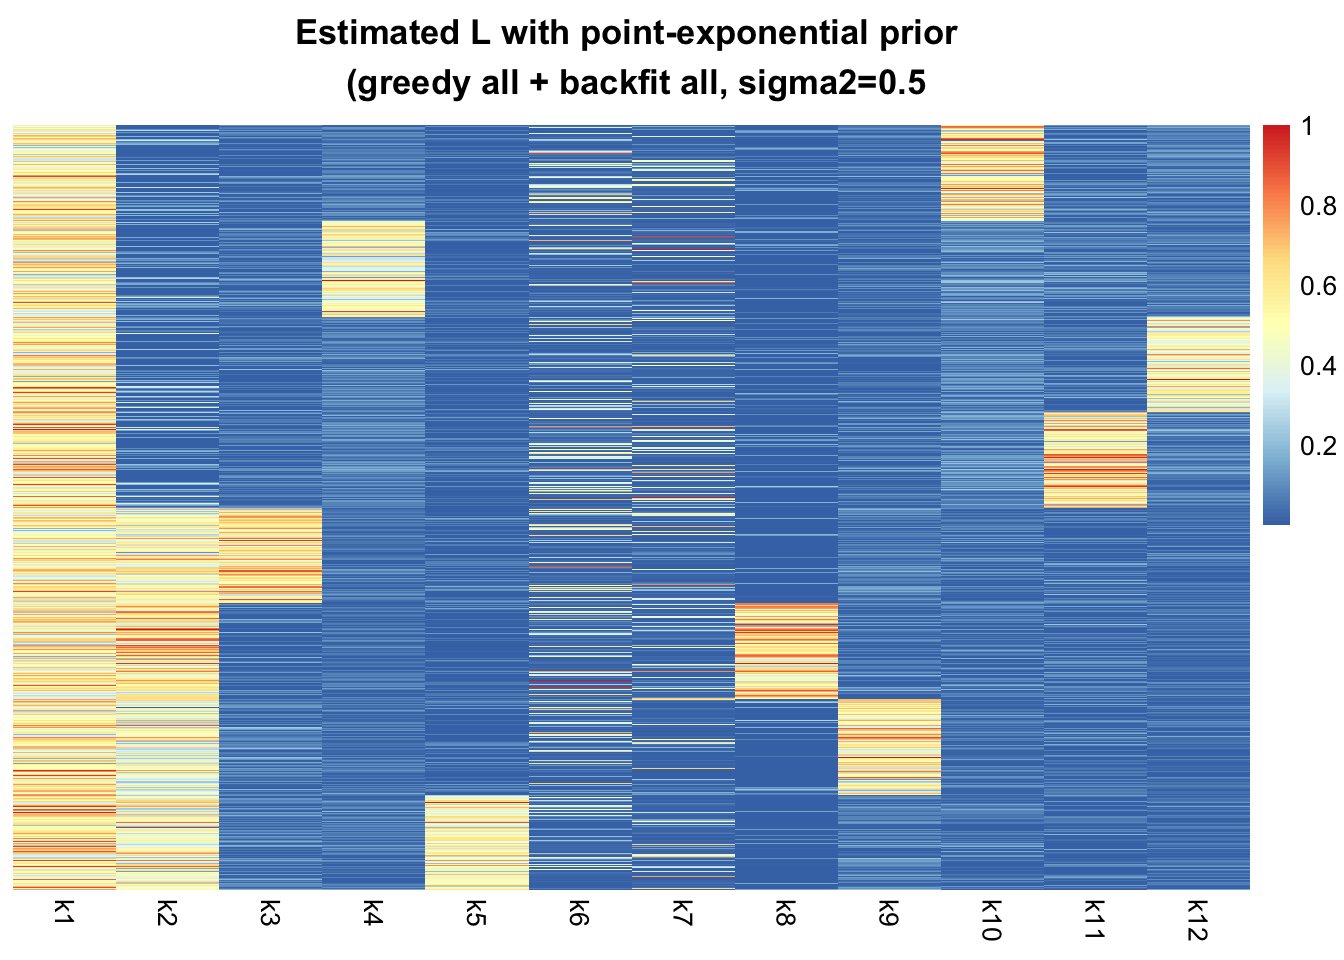
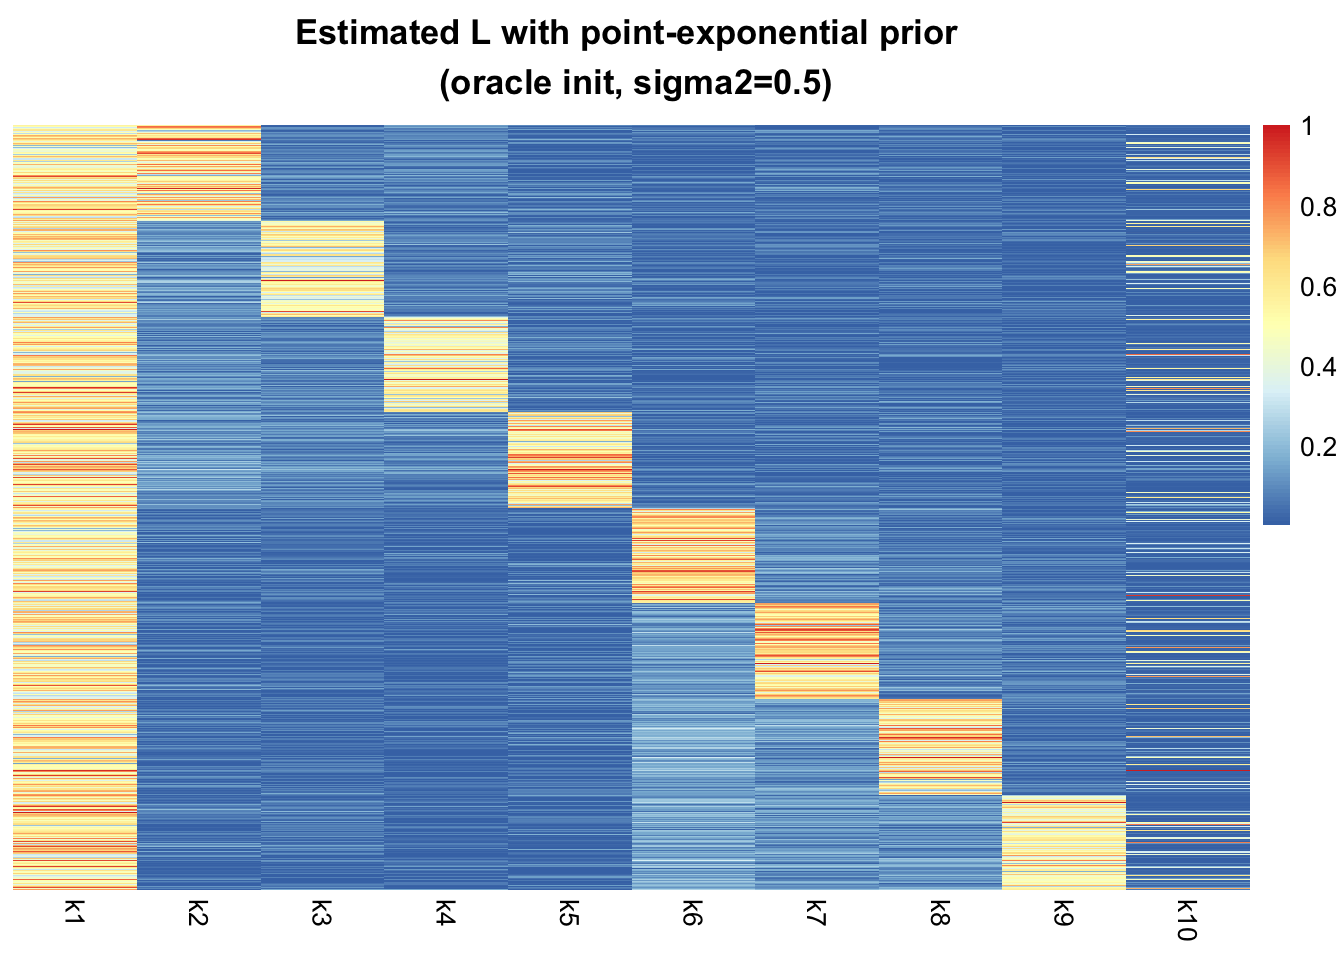
Build site.

diff --git a/docs/simulations3_update.html b/docs/simulations3_update.html
@@ -476,16 +476,16 @@ This reproducible <a href="http://rmarkdown.rstudio.com">R Markdown</a> analysis
 <div class="panel panel-default">
 <div class="panel-heading">
 <p class="panel-title">
-<a data-toggle="collapse" data-parent="#workflowr-checks" href="#strongRepositoryversionstrongahrefhttpsgithubcomYushaLiusinglecellcancertreeb3dc8a7700b6a41633ed377113ceb9a4d5aa9d29targetblankb3dc8a7a"> <span class="glyphicon glyphicon-ok text-success" aria-hidden="true"></span> <strong>Repository version:</strong> <a href="https://github.com/YushaLiu/single_cell_cancer/tree/b3dc8a7700b6a41633ed377113ceb9a4d5aa9d29" target="_blank">b3dc8a7</a> </a>
+<a data-toggle="collapse" data-parent="#workflowr-checks" href="#strongRepositoryversionstrongahrefhttpsgithubcomYushaLiusinglecellcancertreef4baf2c59f8a4767bcbb24afbb90eb5f35274827targetblankf4baf2ca"> <span class="glyphicon glyphicon-ok text-success" aria-hidden="true"></span> <strong>Repository version:</strong> <a href="https://github.com/YushaLiu/single_cell_cancer/tree/f4baf2c59f8a4767bcbb24afbb90eb5f35274827" target="_blank">f4baf2c</a> </a>
 </p>
 </div>
[2 lines of base64/hex data omitted]
 <div class="panel-body">
 <p>
 Great! You are using Git for version control. Tracking code development and connecting the code version to the results is critical for reproducibility.
 </p>
 <p>
-The results in this page were generated with repository version <a href="https://github.com/YushaLiu/single_cell_cancer/tree/b3dc8a7700b6a41633ed377113ceb9a4d5aa9d29" target="_blank">b3dc8a7</a>. See the <em>Past versions</em> tab to see a history of the changes made to the R Markdown and HTML files.
+The results in this page were generated with repository version <a href="https://github.com/YushaLiu/single_cell_cancer/tree/f4baf2c59f8a4767bcbb24afbb90eb5f35274827" target="_blank">f4baf2c</a>. See the <em>Past versions</em> tab to see a history of the changes made to the R Markdown and HTML files.
 </p>
 <p>
 Note that you need to be careful to ensure that all relevant files for the analysis have been committed to Git prior to generating the results (you can use <code>wflow_publish</code> or <code>wflow_git_commit</code>). workflowr only checks the R Markdown file, but you know if there are other scripts or data files that it depends on. Below is the status of the Git repository when the results were generated:
@@ -498,6 +498,9 @@ Ignored files:
 
 Untracked files:
     Untracked:  code/simulations.R
+    Untracked:  code/simulations3_update.R
+    Untracked:  output/simulations3_update_XXt_fit3_sigma_v1.Rds
+    Untracked:  output/simulations3_update_XXt_fit3_sigma_v2.Rds
 
 Unstaged changes:
     Modified:   code/util.R
@@ -544,6 +547,40 @@ Message
 Rmd
 </td>
 <td>
+<a href="https://github.com/YushaLiu/single_cell_cancer/blob/f4baf2c59f8a4767bcbb24afbb90eb5f35274827/analysis/simulations3_update.Rmd" target="_blank">f4baf2c</a>
+</td>
+<td>
+yushaliu
+</td>
+<td>
+2021-10-17
+</td>
+<td>
+centered the intercept column of F in the simulation design
+</td>
+</tr>
+<tr>
+<td>
+html
+</td>
+<td>
+<a href="https://rawcdn.githack.com/YushaLiu/single_cell_cancer/c422dc9c8cf3e53f6a090f4a545a612c5b0de423/docs/simulations3_update.html" target="_blank">c422dc9</a>
+</td>
+<td>
+yushaliu
+</td>
+<td>
+2021-10-17
+</td>
+<td>
+Build site.
+</td>
+</tr>
+<tr>
+<td>
+Rmd
+</td>
+<td>
 <a href="https://github.com/YushaLiu/single_cell_cancer/blob/b3dc8a7700b6a41633ed377113ceb9a4d5aa9d29/analysis/simulations3_update.Rmd" target="_blank">b3dc8a7</a>
 </td>
 <td>
@@ -585,8 +622,82 @@ F[,1] &lt;- F[,1] - 10
 ### plot the drift factorization of truth, where F is orthogonal across columns 
 pheatmap(L[,-1], show_rownames = FALSE, cluster_rows = FALSE, cluster_cols = FALSE, main=&quot;True L&quot;)</code></pre>
 <p><img src="figure/simulations3_update.Rmd/unnamed-chunk-1-1.png" width="672" style="display: block; margin: auto;" /></p>
+<p>
+<button type="button" class="btn btn-default btn-xs btn-workflowr btn-workflowr-fig" data-toggle="collapse" data-target="#fig-unnamed-chunk-1-1">
+Past versions of unnamed-chunk-1-1.png
+</button>
+</p>
+<div id="fig-unnamed-chunk-1-1" class="collapse">
+<div class="table-responsive">
+<table class="table table-condensed table-hover">
+<thead>
+<tr>
+<th>
+Version
+</th>
+<th>
+Author
+</th>
+<th>
+Date
+</th>
+</tr>
+</thead>
+<tbody>
+<tr>
+<td>
+<a href="https://github.com/YushaLiu/single_cell_cancer/blob/c422dc9c8cf3e53f6a090f4a545a612c5b0de423/docs/figure/simulations3_update.Rmd/unnamed-chunk-1-1.png" target="_blank">c422dc9</a>
+</td>
+<td>
+yushaliu
+</td>
+<td>
+2021-10-17
+</td>
+</tr>
+</tbody>
+</table>
+</div>
+</div>
 <pre class="r"><code>pheatmap(F[,-1], show_rownames = FALSE, cluster_rows = FALSE, cluster_cols = FALSE, main=&quot;True F&quot;)</code></pre>
 <p><img src="figure/simulations3_update.Rmd/unnamed-chunk-1-2.png" width="672" style="display: block; margin: auto;" /></p>
+<p>
+<button type="button" class="btn btn-default btn-xs btn-workflowr btn-workflowr-fig" data-toggle="collapse" data-target="#fig-unnamed-chunk-1-2">
+Past versions of unnamed-chunk-1-2.png
+</button>
+</p>
+<div id="fig-unnamed-chunk-1-2" class="collapse">
+<div class="table-responsive">
+<table class="table table-condensed table-hover">
+<thead>
+<tr>
+<th>
+Version
+</th>
+<th>
+Author
+</th>
+<th>
+Date
+</th>
+</tr>
+</thead>
+<tbody>
+<tr>
+<td>
+<a href="https://github.com/YushaLiu/single_cell_cancer/blob/c422dc9c8cf3e53f6a090f4a545a612c5b0de423/docs/figure/simulations3_update.Rmd/unnamed-chunk-1-2.png" target="_blank">c422dc9</a>
+</td>
+<td>
+yushaliu
+</td>
+<td>
+2021-10-17
+</td>
+</tr>
+</tbody>
+</table>
+</div>
+</div>
 <div id="use-true-l-for-initialization-sigma21" class="section level3">
 <h3>Use true L for initialization (sigma2=1)</h3>
 <pre class="r"><code>### simulate data with i.i.d. gaussian errors
@@ -633,6 +744,43 @@ colnames(fit1.L) &lt;- paste0(&quot;k&quot;, 1:ncol(fit1.L))
 pheatmap(fit1.L, show_rownames = FALSE, cluster_rows = FALSE, cluster_cols = FALSE, 
          main=&quot;Estimated L with point-exponential prior \n (oracle init, sigma2=1)&quot;)</code></pre>
 <p><img src="figure/simulations3_update.Rmd/unnamed-chunk-2-1.png" width="672" style="display: block; margin: auto;" /></p>
+<p>
+<button type="button" class="btn btn-default btn-xs btn-workflowr btn-workflowr-fig" data-toggle="collapse" data-target="#fig-unnamed-chunk-2-1">
+Past versions of unnamed-chunk-2-1.png
+</button>
+</p>
+<div id="fig-unnamed-chunk-2-1" class="collapse">
+<div class="table-responsive">
+<table class="table table-condensed table-hover">
+<thead>
+<tr>
+<th>
+Version
+</th>
+<th>
+Author
+</th>
+<th>
+Date
+</th>
+</tr>
+</thead>
+<tbody>
+<tr>
+<td>
+<a href="https://github.com/YushaLiu/single_cell_cancer/blob/c422dc9c8cf3e53f6a090f4a545a612c5b0de423/docs/figure/simulations3_update.Rmd/unnamed-chunk-2-1.png" target="_blank">c422dc9</a>
+</td>
+<td>
+yushaliu
+</td>
+<td>
+2021-10-17
+</td>
+</tr>
+</tbody>
+</table>
+</div>
+</div>
 </div>
 <div id="add-all-factors-greedily-then-take-nonnegative-transform-and-backfit-all-factors-sigma21" class="section level3">
 <h3>Add all factors greedily, then take nonnegative transform and backfit all factors (sigma2=1)</h3>
@@ -710,6 +858,56 @@ fit2.L &lt;- t(t(fit2.L)/apply(fit2.L, 2, max))
 colnames(fit2.L) &lt;- paste0(&quot;k&quot;, 1:ncol(fit2.L))
 pheatmap(fit2.L, show_rownames = FALSE, cluster_rows = FALSE, cluster_cols = FALSE, main=&quot;Estimated L with point-exponential prior \n (greedy all + backfit all, sigma2=1&quot;)</code></pre>
 <p><img src="figure/simulations3_update.Rmd/unnamed-chunk-3-1.png" width="672" style="display: block; margin: auto;" /></p>
+<p>
+<button type="button" class="btn btn-default btn-xs btn-workflowr btn-workflowr-fig" data-toggle="collapse" data-target="#fig-unnamed-chunk-3-1">
+Past versions of unnamed-chunk-3-1.png
+</button>
+</p>
+<div id="fig-unnamed-chunk-3-1" class="collapse">
+<div class="table-responsive">
+<table class="table table-condensed table-hover">
+<thead>
+<tr>
+<th>
+Version
+</th>
+<th>
+Author
+</th>
+<th>
+Date
+</th>
+</tr>
+</thead>
+<tbody>
+<tr>
+<td>
+<a href="https://github.com/YushaLiu/single_cell_cancer/blob/c422dc9c8cf3e53f6a090f4a545a612c5b0de423/docs/figure/simulations3_update.Rmd/unnamed-chunk-3-1.png" target="_blank">c422dc9</a>
+</td>
+<td>
+yushaliu
+</td>
+<td>
+2021-10-17
+</td>
+</tr>
+</tbody>
+</table>
+</div>
+</div>
+</div>
+<div id="iteratively-add-each-factor-greedily-then-take-nonnegative-transform-and-backfit-that-factor-sigma21" class="section level3">
+<h3>Iteratively add each factor greedily, then take nonnegative transform and backfit that factor (sigma2=1)</h3>
+<pre class="r"><code>### fit flash with point exponential prior to XXt 
+fit3 &lt;- readRDS(&quot;output/simulations3_update_XXt_fit3_sigma_v1.Rds&quot;)
+
+### look at the estimates of L
+fit3.L &lt;- fit3$loadings.pm[[1]]
+fit3.L &lt;- fit3.L[, fit3$pve &gt; 0]
+fit3.L &lt;- t(t(fit3.L)/apply(fit3.L, 2, max))
+colnames(fit3.L) &lt;- paste0(&quot;k&quot;, 1:ncol(fit3.L))
+pheatmap(fit3.L, show_rownames = FALSE, cluster_rows = FALSE, cluster_cols = FALSE, main=&quot;Estimated L with point-exponential prior \n (iteratively greedy + backfit, sigma2=1)&quot;)</code></pre>
+<p><img src="figure/simulations3_update.Rmd/unnamed-chunk-4-1.png" width="672" style="display: block; margin: auto;" /></p>
 </div>
 <div id="compare-the-fits-to-the-covariance-matrix" class="section level3">
 <h3>Compare the fits to the covariance matrix</h3>
@@ -718,11 +916,15 @@ fit1$n.factors</code></pre>
 <pre><code>[1] 9</code></pre>
 <pre class="r"><code>fit2$n.factors</code></pre>
 <pre><code>[1] 16</code></pre>
+<pre class="r"><code>fit3$n.factors</code></pre>
+<pre><code>[1] 11</code></pre>
 <pre class="r"><code>### elbo
 fit1$elbo</code></pre>
 <pre><code>[1] 1493690</code></pre>
 <pre class="r"><code>fit2$elbo</code></pre>
 <pre><code>[1] 1494203</code></pre>
+<pre class="r"><code>fit3$elbo</code></pre>
+<pre><code>[1] 1493824</code></pre>
 </div>
 <div id="use-true-l-for-initialization-sigma20.5" class="section level3">
 <h3>Use true L for initialization (sigma2=0.5)</h3>
@@ -763,7 +965,44 @@ fit1.L &lt;- t(t(fit1.L)/apply(fit1.L, 2, max))
 colnames(fit1.L) &lt;- paste0(&quot;k&quot;, 1:ncol(fit1.L))
 pheatmap(fit1.L, show_rownames = FALSE, cluster_rows = FALSE, cluster_cols = FALSE, 
          main=&quot;Estimated L with point-exponential prior \n (oracle init, sigma2=0.5)&quot;)</code></pre>
-<p><img src="figure/simulations3_update.Rmd/unnamed-chunk-5-1.png" width="672" style="display: block; margin: auto;" /></p>
+<p><img src="figure/simulations3_update.Rmd/unnamed-chunk-6-1.png" width="672" style="display: block; margin: auto;" /></p>
+<p>
+<button type="button" class="btn btn-default btn-xs btn-workflowr btn-workflowr-fig" data-toggle="collapse" data-target="#fig-unnamed-chunk-6-1">
+Past versions of unnamed-chunk-6-1.png
+</button>
+</p>
+<div id="fig-unnamed-chunk-6-1" class="collapse">
+<div class="table-responsive">
+<table class="table table-condensed table-hover">
+<thead>
+<tr>
+<th>
+Version
+</th>
+<th>
+Author
+</th>
+<th>
+Date
+</th>
+</tr>
+</thead>
+<tbody>
+<tr>
+<td>
+<a href="https://github.com/YushaLiu/single_cell_cancer/blob/c422dc9c8cf3e53f6a090f4a545a612c5b0de423/docs/figure/simulations3_update.Rmd/unnamed-chunk-6-1.png" target="_blank">c422dc9</a>
+</td>
+<td>
+yushaliu
+</td>
+<td>
+2021-10-17
+</td>
+</tr>
+</tbody>
+</table>
+</div>
+</div>
 </div>
 <div id="add-all-factors-greedily-then-take-nonnegative-transform-and-backfit-all-factors-sigma20.5" class="section level3">
 <h3>Add all factors greedily, then take nonnegative transform and backfit all factors (sigma2=0.5)</h3>
@@ -845,7 +1084,20 @@ fit2.L &lt;- fit2.L[, fit2$pve &gt; 0]
 fit2.L &lt;- t(t(fit2.L)/apply(fit2.L, 2, max))
 colnames(fit2.L) &lt;- paste0(&quot;k&quot;, 1:ncol(fit2.L))
 pheatmap(fit2.L, show_rownames = FALSE, cluster_rows = FALSE, cluster_cols = FALSE, main=&quot;Estimated L with point-exponential prior \n (greedy all + backfit all, sigma2=0.5&quot;)</code></pre>
-<p><img src="figure/simulations3_update.Rmd/unnamed-chunk-6-1.png" width="672" style="display: block; margin: auto;" /></p>
+<p><img src="figure/simulations3_update.Rmd/unnamed-chunk-7-1.png" width="672" style="display: block; margin: auto;" /></p>
+</div>
+<div id="iteratively-add-each-factor-greedily-then-take-nonnegative-transform-and-backfit-that-factor-sigma20.5" class="section level3">
+<h3>Iteratively add each factor greedily, then take nonnegative transform and backfit that factor (sigma2=0.5)</h3>
+<pre class="r"><code>### fit flash with point exponential prior to XXt 
+fit3 &lt;- readRDS(&quot;output/simulations3_update_XXt_fit3_sigma_v2.Rds&quot;)
+
+### look at the estimates of L
+fit3.L &lt;- fit3$loadings.pm[[1]]
+fit3.L &lt;- fit3.L[, fit3$pve &gt; 0]
+fit3.L &lt;- t(t(fit3.L)/apply(fit3.L, 2, max))
+colnames(fit3.L) &lt;- paste0(&quot;k&quot;, 1:ncol(fit3.L))
+pheatmap(fit3.L, show_rownames = FALSE, cluster_rows = FALSE, cluster_cols = FALSE, main=&quot;Estimated L with point-exponential prior \n (iteratively greedy + backfit, sigma2=0.5)&quot;)</code></pre>
+<p><img src="figure/simulations3_update.Rmd/unnamed-chunk-8-1.png" width="672" style="display: block; margin: auto;" /></p>
 </div>
 <div id="compare-the-fits-to-the-covariance-matrix-1" class="section level3">
 <h3>Compare the fits to the covariance matrix</h3>
@@ -854,11 +1106,15 @@ fit1$n.factors</code></pre>
 <pre><code>[1] 10</code></pre>
 <pre class="r"><code>fit2$n.factors</code></pre>
 <pre><code>[1] 12</code></pre>
+<pre class="r"><code>fit3$n.factors</code></pre>
+<pre><code>[1] 11</code></pre>
 <pre class="r"><code>### elbo
 fit1$elbo</code></pre>
 <pre><code>[1] 1942101</code></pre>
 <pre class="r"><code>fit2$elbo</code></pre>
 <pre><code>[1] 1941704</code></pre>
+<pre class="r"><code>fit3$elbo</code></pre>
+<pre><code>[1] 1942274</code></pre>
 <br>
 <p>
 <button type="button" class="btn btn-default btn-workflowr btn-workflowr-sessioninfo" data-toggle="collapse" data-target="#workflowr-sessioninfo" style="display: block;">
